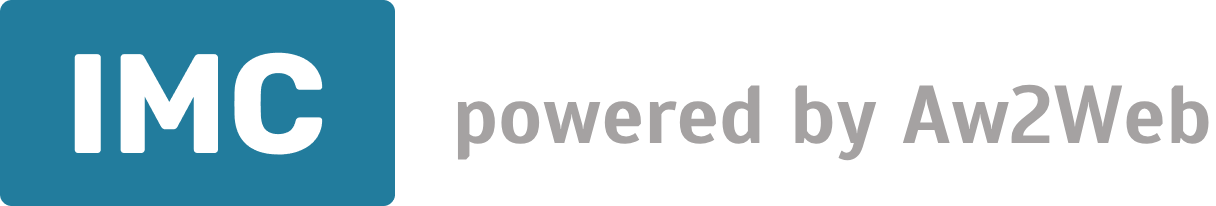
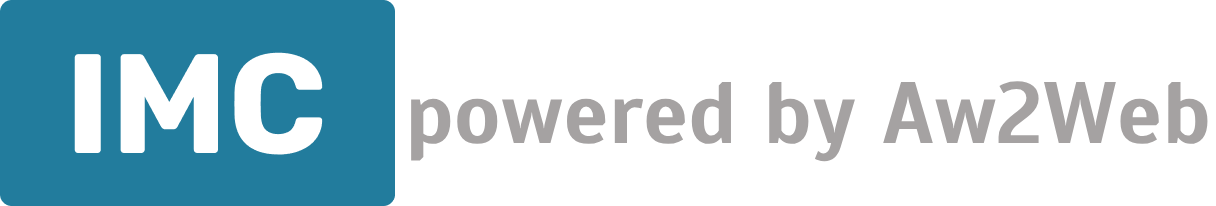
image

Changed region(s): [[0.3125, 0.3786, 1.0, 0.7864]]

diff --git a/src/App.tsx b/src/App.tsx
@@ -1,12 +1,9 @@
 import { useState } from 'react';
 import styles from './App.module.css';
-import powerImage from './assets/powered (1).png';
+import powerImage from './assets/powered.png';
 import { GridItem } from './components/GridItem';
 import leftArrowImage from './assets/leftarrow.png'
-
 import { levels, calculateImc, Level } from './helpers/imc';
-import { isDisabled } from '@testing-library/user-event/dist/utils';
-import { toBeDisabled, toBeEnabled } from '@testing-library/jest-dom/matchers';
 
 const App = () => {
   const [heightField, setHeightField] = useState<number>(0);
